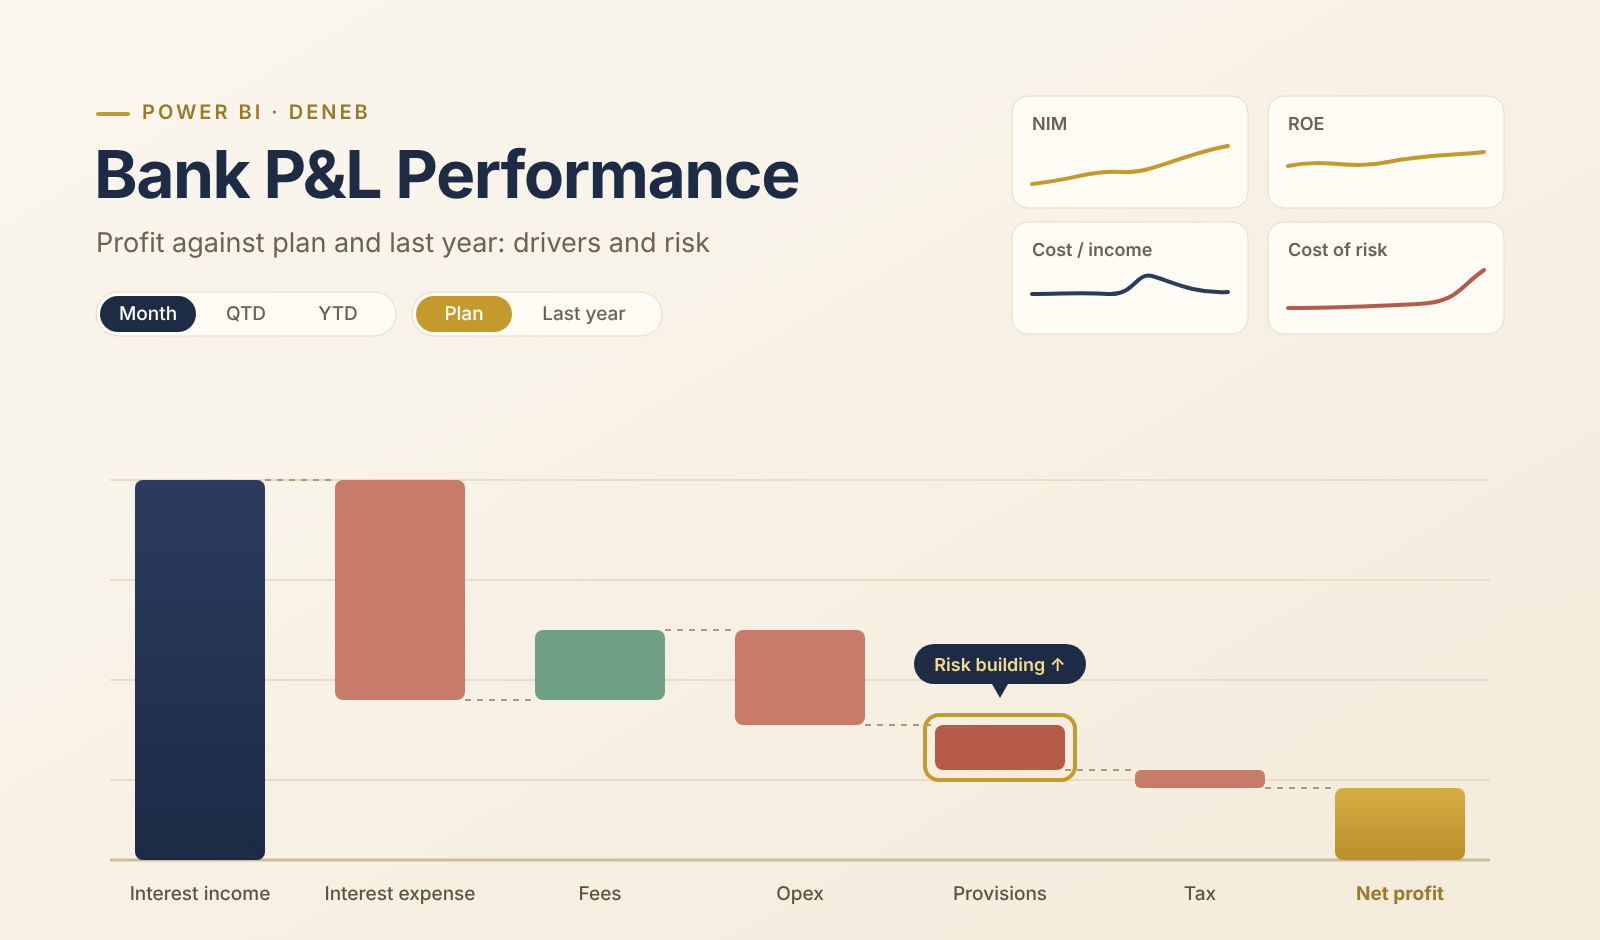
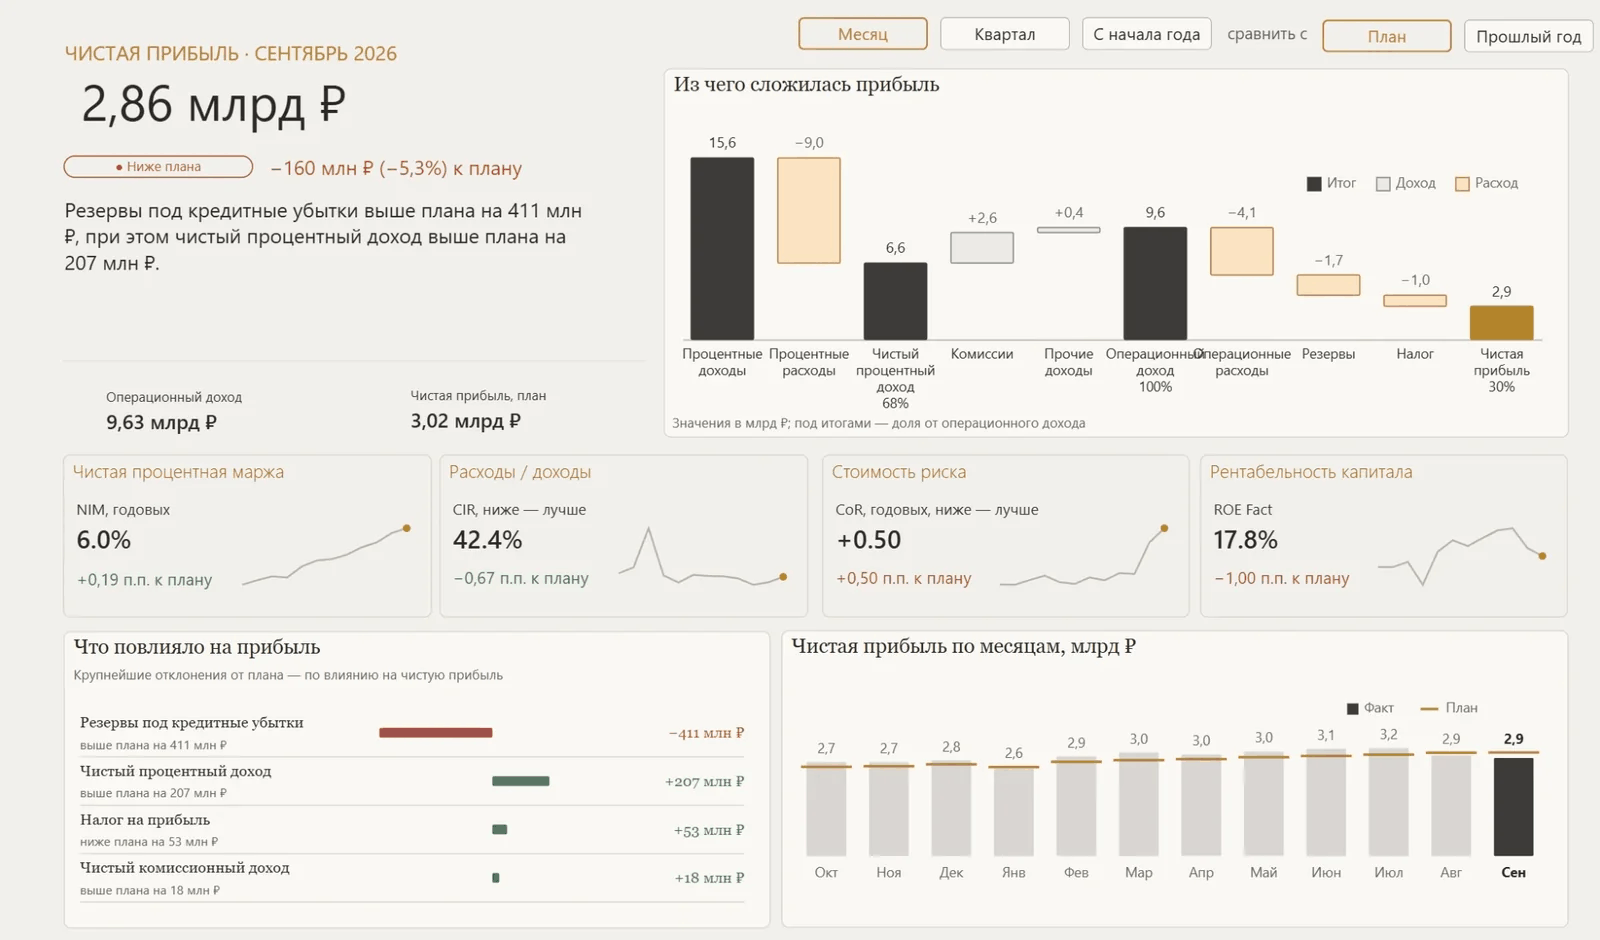
Use the real P&L dashboard screenshot; date June 2026
Replace the illustrated cover with the owner's screenshot (1600x940
WebP, 256-colour PNG fallback for link previews), update its alt text
and drop the "illustrated preview" note. Project date is June 2026.

Claude-Session: https://claude.ai/code/session_014n65pTvAaitR7z594b36sM

diff --git a/Bank_PnL_performance.html b/Bank_PnL_performance.html
@@ -82,7 +82,7 @@
       <dl class="meta-row">
         <div><dt>Category</dt><dd>Financial Analysis &middot; Banking</dd></div>
         <div><dt>Type</dt><dd>Portfolio project</dd></div>
-        <div><dt>Date</dt><dd>October 2026</dd></div>
+        <div><dt>Date</dt><dd>June 2026</dd></div>
         <div><dt>Tools</dt><dd>Power BI, DAX, Deneb (Vega-Lite), Python</dd></div>
       </dl>
     </div>
@@ -112,9 +112,9 @@
           <iframe title="Bank P&amp;L Performance, interactive Power BI dashboard" data-src="https://app.powerbi.com/view?r=eyJrIjoiNDU1MTg1YTAtNGUyYS00ZjcwLWE1YTctNzhiNDU5ZjJlOTY0IiwidCI6ImY3YjQ5MjU0LTMxZmYtNDVkZS04NGJkLTEyMDczYzcyZDMzMSIsImMiOjEwfQ%3D%3D" loading="lazy" allowfullscreen></iframe>
         </div>
         <div class="dash-poster">
-          <picture><source srcset="assets/img/bank-pnl-dashboard.webp" type="image/webp"><img src="assets/img/bank-pnl-dashboard.png" width="1600" height="940" alt="Illustrated cover of the Bank P&amp;L Performance dashboard: a profit waterfall from interest income to net profit, period and plan switches, and KPI sparklines" fetchpriority="high" decoding="async"></picture>
+          <picture><source srcset="assets/img/bank-pnl-dashboard.webp" type="image/webp"><img src="assets/img/bank-pnl-dashboard.png" width="1600" height="940" alt="Bank P&amp;L Performance dashboard in Power BI for September 2026: net profit of 2.86 billion roubles, 5.3% below plan, a profit waterfall, four KPI cards with sparklines, the main drivers against plan and monthly net profit against plan" fetchpriority="high" decoding="async"></picture>
           <div class="dash-poster-cta">
-            <p>Illustrated preview. The live report is interactive.</p>
+            <p>Screenshot of the report. The live version is interactive.</p>
             <a class="btn btn-primary" href="https://app.powerbi.com/view?r=eyJrIjoiNDU1MTg1YTAtNGUyYS00ZjcwLWE1YTctNzhiNDU5ZjJlOTY0IiwidCI6ImY3YjQ5MjU0LTMxZmYtNDVkZS04NGJkLTEyMDczYzcyZDMzMSIsImMiOjEwfQ%3D%3D" target="_blank" rel="noopener noreferrer">Open interactive dashboard<span class="visually-hidden"> (opens in a new tab)</span><svg class="icon icon-sm" viewBox="0 0 24 24" aria-hidden="true" focusable="false"><path d="M14 4h6v6M20 4l-9 9M18 14v5a1 1 0 0 1-1 1H5a1 1 0 0 1-1-1V7a1 1 0 0 1 1-1h5"/></svg></a>
           </div>
         </div>
@@ -180,7 +180,7 @@
           <dl class="aside-dl">
             <div><dt>Category</dt><dd>Financial Analysis &middot; Banking</dd></div>
             <div><dt>Type</dt><dd>Portfolio project</dd></div>
-            <div><dt>Date</dt><dd>October 2026</dd></div>
+            <div><dt>Date</dt><dd>June 2026</dd></div>
             <div><dt>Tools</dt><dd>Power BI, DAX, Deneb (Vega-Lite), Python</dd></div>
           </dl>
         </div>

diff --git a/index.html b/index.html
@@ -128,7 +128,7 @@
         <ul class="project-grid featured">
         <li class="reveal" data-type="powerbi">
           <article class="project-card">
-            <a class="project-media" href="Bank_PnL_performance.html" tabindex="-1" aria-hidden="true"><picture><source srcset="assets/img/bank-pnl-dashboard.webp" type="image/webp"><img src="assets/img/bank-pnl-dashboard.png" width="1600" height="940" alt="Illustrated cover of the Bank P&amp;L Performance dashboard: a profit waterfall from interest income to net profit, period and plan switches, and KPI sparklines" loading="lazy" decoding="async"></picture></a>
+            <a class="project-media" href="Bank_PnL_performance.html" tabindex="-1" aria-hidden="true"><picture><source srcset="assets/img/bank-pnl-dashboard.webp" type="image/webp"><img src="assets/img/bank-pnl-dashboard.png" width="1600" height="940" alt="Bank P&amp;L Performance dashboard in Power BI for September 2026: net profit of 2.86 billion roubles, 5.3% below plan, a profit waterfall, four KPI cards with sparklines, the main drivers against plan and monthly net profit against plan" loading="lazy" decoding="async"></picture></a>
             <div class="project-body">
               <h3 class="project-title"><a href="Bank_PnL_performance.html">Bank P&amp;L Performance Dashboard</a></h3>
               <p class="project-desc">Executive Power BI dashboard for a fictional bank (synthetic data): monthly profit against plan and last year, what drove it and where risk is building.</p>

diff --git a/All_Projects.html b/All_Projects.html
@@ -89,7 +89,7 @@
       <ul class="project-grid">
         <li class="reveal" data-type="powerbi">
           <article class="project-card">
-            <a class="project-media" href="Bank_PnL_performance.html" tabindex="-1" aria-hidden="true"><picture><source srcset="assets/img/bank-pnl-dashboard.webp" type="image/webp"><img src="assets/img/bank-pnl-dashboard.png" width="1600" height="940" alt="Illustrated cover of the Bank P&amp;L Performance dashboard: a profit waterfall from interest income to net profit, period and plan switches, and KPI sparklines" loading="lazy" decoding="async"></picture></a>
+            <a class="project-media" href="Bank_PnL_performance.html" tabindex="-1" aria-hidden="true"><picture><source srcset="assets/img/bank-pnl-dashboard.webp" type="image/webp"><img src="assets/img/bank-pnl-dashboard.png" width="1600" height="940" alt="Bank P&amp;L Performance dashboard in Power BI for September 2026: net profit of 2.86 billion roubles, 5.3% below plan, a profit waterfall, four KPI cards with sparklines, the main drivers against plan and monthly net profit against plan" loading="lazy" decoding="async"></picture></a>
             <div class="project-body">
               <h2 class="project-title"><a href="Bank_PnL_performance.html">Bank P&amp;L Performance Dashboard</a></h2>
               <p class="project-desc">Executive Power BI dashboard for a fictional bank (synthetic data): monthly profit against plan and last year, what drove it and where risk is building.</p>

diff --git a/tools/build.py b/tools/build.py
@@ -241,7 +241,7 @@ PROJECTS = [
     dict(key="pnl", type="powerbi", label="Power BI", title="Bank P&amp;L Performance Dashboard",
          desc="Executive Power BI dashboard for a fictional bank (synthetic data): monthly profit against plan and last year, what drove it and where risk is building.",
          tags=["Power BI", "DAX", "Deneb", "Python"], img=("bank-pnl-dashboard", 1600, 940,
-         "Illustrated cover of the Bank P&amp;L Performance dashboard: a profit waterfall from interest income to net profit, period and plan switches, and KPI sparklines"),
+         "Bank P&amp;L Performance dashboard in Power BI for September 2026: net profit of 2.86 billion roubles, 5.3% below plan, a profit waterfall, four KPI cards with sparklines, the main drivers against plan and monthly net profit against plan"),
          page="Bank_PnL_performance.html", dash=PNL_EMBED),
     dict(key="population", type="powerbi", label="Power BI", title="Uzbekistan Population Growth Analysis (2010&ndash;2023)",
          desc="Power BI dashboard built on real demographic data, tracking population change across regions, districts and years.",
@@ -899,14 +899,13 @@ CASES = {
         crumb="Bank P&amp;L Performance",
         title="Bank P&amp;L Performance Dashboard",
         lead="An executive Power BI dashboard (fictional bank, synthetic data) that explains a commercial bank&rsquo;s monthly profit and loss against plan and against last year &mdash; what drove the result, and where the risk is building.",
-        category="Financial Analysis &middot; Banking", type="Portfolio project", date="October 2026",
+        category="Financial Analysis &middot; Banking", type="Portfolio project", date="June 2026",
         tools="Power BI, DAX, Deneb (Vega-Lite), Python",
         kpis=[("₽34.8B", "Net profit"), ("+3.6%", "Net profit vs plan"), ("18.1%", "Return on equity"),
               ("5.5%", "Net interest margin"), ("42.7%", "Cost-to-income ratio"), ("1.50%", "Cost of risk")],
         kpi_note="Key figures for 12 months, Oct 2025 &ndash; Sep 2026.",
         img=P_BY["pnl"]["img"], embed=PNL_EMBED,
         iframe_title="Bank P&amp;L Performance, interactive Power BI dashboard",
-        poster_note="Illustrated preview. The live report is interactive.",
         body=PNL_BODY, tip=PNL_TIP,
         prev=("All_Projects.html", "All projects"),
         next=("Uzbekistan_population.html", "Uzbekistan Population Growth Analysis"),

diff --git a/CLAUDE.md b/CLAUDE.md
@@ -35,9 +35,8 @@ The owner adds projects and updates content by asking Claude. Read this first; i
 4. Update counts that mention projects (projects page intro in `build_all`, the "Case studies" lead in `build_index`).
    The homepage features every project with a `page`; the first one in `PROJECTS` gets the wide card, so put the newest first
    and fix the prev/next links of the neighbouring case pages.
-   Note: `assets/img/bank-pnl-dashboard.png` is an illustrated cover, not a screenshot (Power BI is unreachable from the
-   sandbox). When the owner sends a real screenshot, save it under the same name (1600x940, crop if needed), regenerate
-   the WebP, and change `poster_note` and the `img` alt text for that case.
+   Screenshots: Power BI is unreachable from the sandbox, so ask the owner for one. Crop to 1600x940 (the card ratio),
+   save WebP, and keep the PNG fallback under ~400 KB (a 256-colour palette works well for dashboards).
 5. Regenerate and check before pushing:
    - `python3 tools/build.py`
    - every local href/src resolves, one h1 per page
